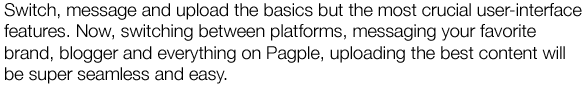
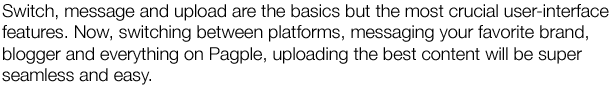
reindent

diff --git a/Alpha/index.html b/Alpha/index.html
@@ -124,8 +124,8 @@
                         <div id="midline"></div>
                     </div>
                     <div class="macbook">
-                        <img src="img/simple/Macbookpro.png"/>
-                        <img src="img/simple/macbookpro-tr.png"/>
+                        <img src="img/simple/Macbookpro.png" />
+                        <img src="img/simple/macbookpro-tr.png" />
                     </div>
                 </div>
                 <div id="simpleMainBar"></div>
@@ -158,20 +158,16 @@
                     <div style="width:80%;margin:0 auto;">
                         <div id="profTextDiv"></div>
                         <div class="ao-item">
-                        <div class="ao-preview">
-                        <input type="checkbox" id="ao-toggle" class="ao-toggle" name="ao-toggle" />
-                        <img src="img/elements/profilePage.png"/>
-                        <div class="ao-annotations">
-                            <span>Text 1</span>
-                            <span>Text 2</span>
-                            <span>Text 3</span>
-                            <span>Text 4</span>
-                            <span>Text 5</span>
+                            <div class="ao-preview">
+                                <input type="checkbox" id="ao-toggle" class="ao-toggle" name="ao-toggle" />
+                                <img src="img/elements/profilePage.png" />
+                                <div class="ao-annotations"> 
+                                  <span>Profile</span>
+                                  <span>Message</span>
+                                  <span>Content</span>
+                                </div>
+                            </div>
                         </div>
-                        </div>
-                    </div>
-
-                        
                     </div>
                     <div id="separator">
                         <img src="img/separator.png" />
@@ -179,54 +175,51 @@
                     <div style="width:80%;margin:0 auto;">
                         <div id="itemTextDiv"></div>
                         <div class="ao-item">
-                        <div class="ao-preview">
-                        <input type="checkbox" id="ao-toggle" class="ao-toggle" name="ao-toggle" />
-                        <img src="img/elements/itemPage.png"/>
-                        <div class="ao-annotations">
-                            <span>Text 1</span>
-                            <span>Text 2</span>
-                            <span>Text 3</span>
-                            <span>Text 4</span>
-                            <span>Text 5</span>
+                            <div class="ao-preview">
+                                <input type="checkbox" id="ao-toggle" class="ao-toggle" name="ao-toggle" />
+                                <img src="img/elements/itemPage.png" />
+                                <div class="ao-annotations"> 
+                                  <span>Profile Pic</span>
+                                  <span>Pictures</span>
+                                  <span>Options</span>
+                                  <span>Information</span>
+
+                                </div>
+                            </div>
                         </div>
+                        <div id="separator">
+                            <img src="img/separator.png" />
                         </div>
-                    </div>
-                    <div id="separator">
-                        <img src="img/separator.png" />
-                    </div>
-                    <div style="width:80%;margin:0 auto;">
-                        <div id="notifyTextDiv"></div>
-                        <div class="ao-item">
-                        <div class="ao-preview">
-                        <input type="checkbox" id="ao-toggle" class="ao-toggle" name="ao-toggle" />
-                        <img src="img/elements/Notification.png"/>
-                        <div class="ao-annotations">
-                            <span>Text 1</span>
-                            <span>Text 2</span>
-                            <span>Text 3</span>
-                            <span>Text 4</span>
-                            <span>Text 5</span>
-                        </div>
+                        <div style="width:80%;margin:0 auto;">
+                            <div id="notifyTextDiv"></div>
+                            <div class="ao-item">
+                                <div class="ao-preview">
+                                    <input type="checkbox" id="ao-toggle" class="ao-toggle" name="ao-toggle" />
+                                    <img src="img/elements/Notification.png" />
+                                    <div class="ao-annotations"> 
+                                      <span>Notification bar</span>
+                                      <span>Icons</span>
+                                    </div>
+                                </div>
+                            </div>
                         </div>
                     </div>
                 </div>
-            </div>
-        </div>
-        <!-- Footer -->
-        <footer>
-            <div id="social-container">
-                <div id="twitter-follow">
-                    <a href='https://twitter.com/pagple' target='_blank'>
-                        <img src='ico/twitter-ico.png'>
-                    </a>
-                </div>
-                <div id="instagram-follow">
-                    <a href='http://instagram.com/pagple' target='_blank'>
-                        <img src='ico/instragram.png'>
-                    </a>
-                </div>
-            </div>
-        </footer>
+                <!-- Footer -->
+                <footer>
+                    <div id="social-container">
+                        <div id="twitter-follow">
+                            <a href='https://twitter.com/pagple' target='_blank'>
+                                <img src='ico/twitter-ico.png'>
+                            </a>
+                        </div>
+                        <div id="instagram-follow">
+                            <a href='http://instagram.com/pagple' target='_blank'>
+                                <img src='ico/instragram.png'>
+                            </a>
+                        </div>
+                    </div>
+                </footer>
     </body>
 
 </html>

diff --git a/Alpha/js/script.js b/Alpha/js/script.js
@@ -1,5 +1,6 @@
 // click on the div
 var bgChg = false;
+
 function toggle(e, id) {
     var el = document.getElementById(id);
     $(el).fadeOut("slow");
@@ -25,7 +26,7 @@ document.onclick = function () {
 }
 
 $(document).ready(function () {
-thebackground();
+    thebackground();
     $('div.macbook').fadeIn(1000); // works for all the browsers other than IE
     $('div.macbook img').fadeIn(1000); // IE tweak
     $("#email-form").submit(function (e) {
@@ -83,18 +84,18 @@ $(function () {
 });
 
 function thebackground() {
-    
+
     setInterval('change()', 7000);
 }
 
 function change() {
-    if(bgChg){
+    if (bgChg) {
         $('div.macbook img').fadeIn(1000);
         $('div.macbook img:first').fadeOut(1000);
-        bgChg=false;
-    }else{
+        bgChg = false;
+    } else {
         $('div.macbook img').fadeOut(1000);
         $('div.macbook img:first').fadeIn(1000);
-        bgChg=true;
+        bgChg = true;
     }
 };

diff --git a/Alpha/css/annotation.css b/Alpha/css/annotation.css
@@ -75,7 +75,7 @@
 	-ms-filter:"progid:DXImageTransform.Microsoft.Alpha(Opacity=80)";
     filter: alpha(opacity=95);
 	opacity: 0.8;
-	box-shadow: 1px 1px 10px rgba(0,0,0,0.2);
+	/*box-shadow: 1px 1px 10px rgba(0,0,0,0.2);*/
 	-webkit-transition: all 0.3s ease-in-out;
 	-moz-transition: all 0.3s ease-in-out;
 	-o-transition: all 0.3s ease-in-out;
@@ -135,7 +135,7 @@
 	transition: all 0.3s ease-in-out;
 }
 
-.ao-annotations span:after {
+.ao-annotations span:after{
 	position: absolute;
 	background: transparent url(../img/annotation/arrow.png) no-repeat center center;
 	width: 32px;
